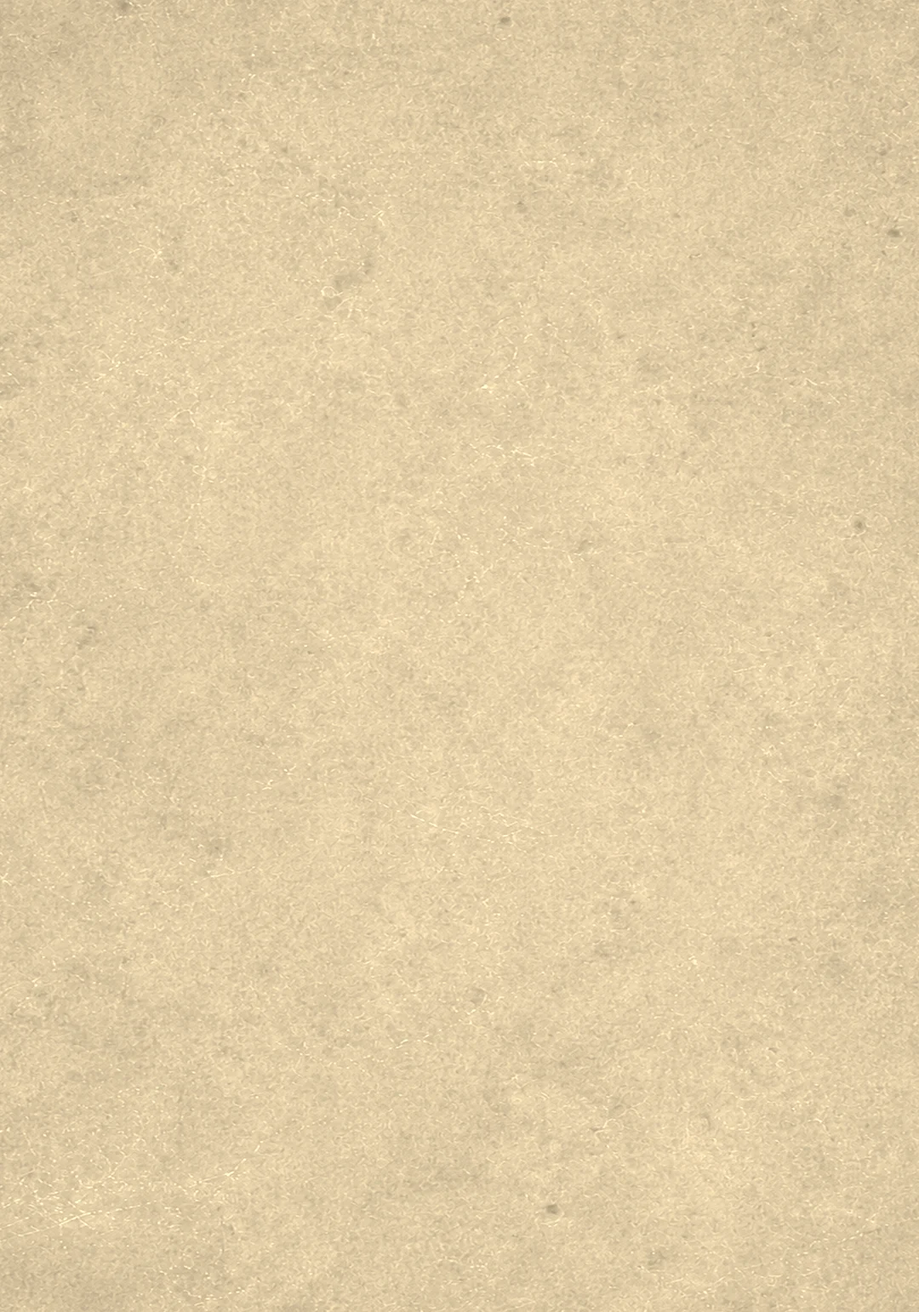
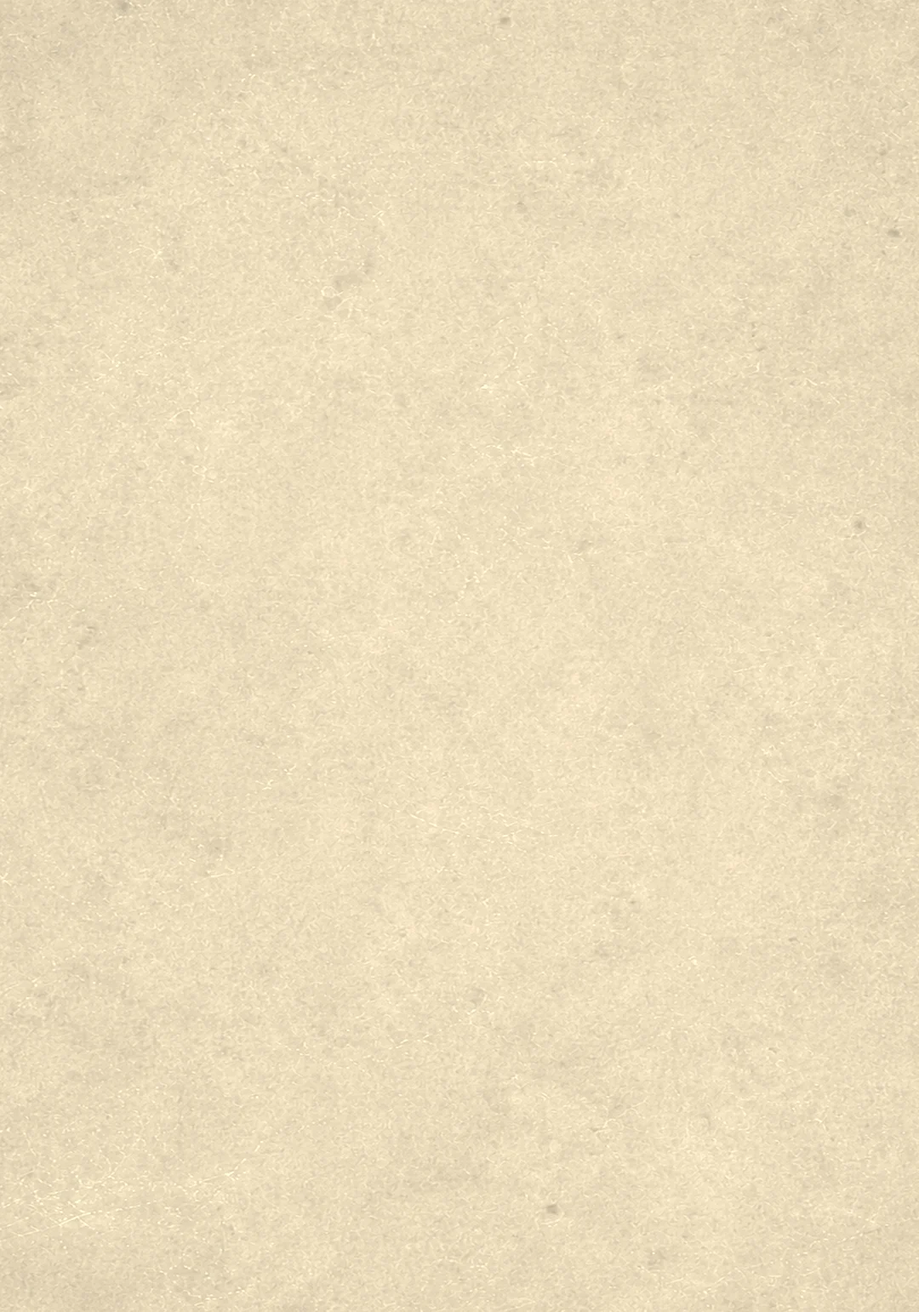
Egito: fundo de areia na opção 2 (mais claro), escolhida pela Vivian
Claude-Session: https://claude.ai/code/session_017RJGScnowdndvDzY2p9N3m

diff --git a/APP CARAVANA EGITO/app/sw.js b/APP CARAVANA EGITO/app/sw.js
@@ -1,10 +1,10 @@
-// marca: 00ac3c0314
+// marca: 0ca8ad15c9
 // Guarda o app inteiro no celular para abrir mesmo sem sinal (templo, estrada, wi-fi fraco do hotel).
 const CACHE = "caravana-v6", EXTRA = "caravana-ext", MAPA = "caravana-mapa", MARCAS = "caravana-marcas";
 // lista de arquivos gerada pelo tools/gerar-site.py
 const ARQUIVOS = /*ARQUIVOS*/["index.html", "shim.js", "config.js", "manifest.webmanifest", "oraculo.html", "oraculo-dados.js", "hieroglifos.html", "gibi.html", "dados/geo.json", "dados/mapa-jogo.json", "dados/saberes/dharma.json", "dados/saberes/ganesha.json", "dados/saberes/kali.json", "dados/saberes/krishna.json", "dados/saberes/lakshmi.json", "dados/saberes/sarasvati.json", "dados/travessia.json", "deuses/amon.webp", "deuses/anubis.webp", "deuses/brahma.webp", "deuses/durga.webp", "deuses/ganesha.webp", "deuses/ganga.webp", "deuses/hanuman.webp", "deuses/hathor.webp", "deuses/hatshepsut.webp", "deuses/horus.webp", "deuses/imhotep.webp", "deuses/isis.webp", "deuses/kali.webp", "deuses/krishna.webp", "deuses/lakshmi.webp", "deuses/maat.webp", "deuses/osiris.webp", "deuses/parvati.webp", "deuses/ptah.webp", "deuses/ra.webp", "deuses/saraswati.webp", "deuses/shiva.webp", "deuses/sobek.webp", "deuses/surya.webp", "deuses/thoth.webp", "deuses/vishnu.webp", "img/abertura-abusimbel.webp", "img/abertura-agra.webp", "img/abertura-aswan.webp", "img/abertura-cairo.webp", "img/abertura-delhi.webp", "img/abertura-deserto.webp", "img/abertura-embarque.webp", "img/abertura-hurghada.webp", "img/abertura-jaipur.webp", "img/abertura-luxor.webp", "img/abertura-nilo.webp", "img/abertura-rishikesh.webp", "img/abertura-varanasi.webp", "img/adesivos/abusimbel.webp", "img/adesivos/aswan.webp", "img/adesivos/cairo.webp", "img/adesivos/correio.webp", "img/adesivos/desertobranco.webp", "img/adesivos/gize.webp", "img/adesivos/hurghada.webp", "img/adesivos/luxor.webp", "img/bastao-claro.webp", "img/bastao-escuro.webp", "img/bilhete-og.jpg", "img/bilhete-textura.jpg", "img/bolsa-bronze.webp", "img/bolsa-couro.webp", "img/bronze.webp", "img/cameras/botao-latao.webp", "img/cameras/campo-corpo.jpg", "img/cameras/campo.png", "img/cameras/carteira-foto.jpg", "img/cameras/carteira.webp", "img/cameras/celular-estante.png", "img/cameras/celular.png", "img/cameras/couro-caramelo.webp", "img/cameras/couro-corpo.jpg", "img/cameras/couro-delhi.webp", "img/cameras/couro.png", "img/cameras/descartavel-corpo.jpg", "img/cameras/descartavel-estante.png", "img/cameras/descartavel.png", "img/cameras/estante.jpg", "img/cameras/etiqueta1.png", "img/cameras/etiqueta2.png", "img/cameras/etiqueta3.png", "img/cameras/instantanea-corpo.jpg", "img/cameras/instantanea-estante.png", "img/cameras/instantanea.png", "img/cameras/mala-cheia.jpg", "img/cameras/mala-oito.webp", "img/cameras/mala-papel.webp", "img/cameras/mala.jpg", "img/cameras/maleta-foto.jpg", "img/cameras/quatro-corpo.jpg", "img/cameras/quatro-estante.png", "img/cameras/quatro.png", "img/cameras/rajastao-corpo.jpg", "img/cameras/rajastao-estante.png", "img/cameras/rajastao.png", "img/cameras/super8-corpo.jpg", "img/cameras/super8-estante.png", "img/cameras/super8.png", "img/caravana-marrom.png", "img/checks/abu-simbel.webp", "img/checks/acampar-sahara.webp", "img/checks/aswan.webp", "img/checks/cairo.webp", "img/checks/cruzeiro-nilo.webp", "img/checks/deserto-branco.webp", "img/checks/historias-esquecidas.webp", "img/checks/hurghada.webp", "img/checks/lua-cheia.webp", "img/checks/luxor.webp", "img/checks/mar-vermelho.webp", "img/checks/mumias.webp", "img/checks/piramide-khufu.webp", "img/checks/rituais.webp", "img/checks/saqqara.webp", "img/checks/sarcofago-tut.webp", "img/checks/ver-piramides.webp", "img/cristal.jpg", "img/egito-mapa-rota.webp", "img/egito-medalhao.webp", "img/egito-passagem.webp", "img/egito-passaporte.webp", "img/emblema.jpg", "img/escaravelho.svg", "img/escaravelho.webp", "img/fundo-abu-fenda.webp", "img/fundo-abu-janela.webp", "img/fundo-anubis.webp", "img/fundo-apis.webp", "img/fundo-areia.webp", "img/fundo-asas.webp", "img/fundo-astronomico-2.webp", "img/fundo-astronomico.webp", "img/fundo-barca-ra.webp", "img/fundo-bronze-escuro.webp", "img/fundo-cartucho.webp", "img/fundo-ceu-nut-estrelas.webp", "img/fundo-cobras-colunas.webp", "img/fundo-colunas.webp", "img/fundo-corredor.webp", "img/fundo-dendera-azul.webp", "img/fundo-dendera-colunas.webp", "img/fundo-dendera-nut.webp", "img/fundo-estrelas-amarelas.webp", "img/fundo-hathor.webp", "img/fundo-hieroglifos.webp", "img/fundo-isis.webp", "img/fundo-lampada.webp", "img/fundo-livro-portas.webp", "img/fundo-nut-barca.webp", "img/fundo-nut-canto.webp", "img/fundo-nut-duplo.webp", "img/fundo-nut-estrelas.webp", "img/fundo-nut-sol.webp", "img/fundo-palmeiras.webp", "img/fundo-papel-gibi.webp", "img/fundo-papiro-escuro.webp", "img/fundo-parede.webp", "img/fundo-pergaminho.webp", "img/fundo-porta-dourada.webp", "img/fundo-relevo.webp", "img/fundo-sacerdote.webp", "img/fundo-serpente-vermelha.webp", "img/fundo-serpente.webp", "img/fundo-teto-dourado.webp", "img/fundo-tumba.webp", "img/fundo-vale-livro.webp", "img/fundo-zodiaco-2.webp", "img/fundo-zodiaco.webp", "img/fundo.webp", "img/gibi/p01-capa.webp", "img/gibi/p02-capitulo-1.webp", "img/gibi/p03-capitulo-2.webp", "img/gibi/p04-dia-1.webp", "img/icone-180.png", "img/icone-192.png", "img/icone-512.png", "img/lacre-escuro.webp", "img/lacre.webp", "img/letreiro.png", "img/lockup-claro.png", "img/logo-egito-240.png", "img/logo-egito.png", "img/logo.png", "img/mantra-ganesha.webp", "img/mantra-vasudeva.webp", "img/mapa-jogo.webp", "img/mapa-mundo.webp", "img/mapa-rota.webp", "img/papiro.webp", "img/parede-cartuchos.webp", "img/passaporte-capa.webp", "img/passaporte.webp", "img/pedra.webp", "img/planetas/budha.webp", "img/planetas/chandra.webp", "img/planetas/guru.webp", "img/planetas/ketu.webp", "img/planetas/mangala.webp", "img/planetas/rahu.webp", "img/planetas/shani.webp", "img/planetas/shukra.webp", "img/planetas/surya.webp", "img/roda-centro.webp", "img/simbolo-claro.png", "img/simbolo-dourado.png", "img/simbolo-marrom.png", "img/simbolo.png", "img/tenda.webp", "img/textura-calcario-escuro.webp", "img/textura-calcario.webp", "img/textura-estrelas.webp", "img/textura-lapis.webp", "img/textura.jpg", "img/veu-cafe.jpg", "img/veu-chocolate.jpg", "img/veu-tabaco.jpg", "img/veu-terra.jpg", "insignias/abu-simbel.webp", "insignias/aswan.webp", "insignias/batismo.webp", "insignias/beatles-ashram.webp", "insignias/cairo.webp", "insignias/caverna.webp", "insignias/deserto-branco.webp", "insignias/diwali.webp", "insignias/durga-kund.webp", "insignias/egito.webp", "insignias/embarque.webp", "insignias/galta-ji.webp", "insignias/ganesha.webp", "insignias/ganga-aarti.webp", "insignias/govind-dev-ji.webp", "insignias/india.webp", "insignias/jaipur.webp", "insignias/kunjapuri.webp", "insignias/luxor.webp", "insignias/manikarnika.webp", "insignias/mar-vermelho.webp", "insignias/mumias.webp", "insignias/piramide-khufu.webp", "insignias/piramides-gize.webp", "insignias/rio-nilo.webp", "insignias/rishikesh.webp", "insignias/sahara.webp", "insignias/sankat-mochan.webp", "insignias/saqqara.webp", "insignias/sarcofago-tut.webp", "insignias/taj-mahal.webp", "insignias/travessia.webp", "insignias/vale-dos-reis.webp", "insignias/varanasi.webp"]/*FIM*/;
 // a marca de cada arquivo: numa atualização o celular só baixa de novo o que mudou (economiza o chip no exterior)
-const MARCA = /*MARCAS*/{"shim.js": "b090d86a0c", "config.js": "431d3dc4e4", "manifest.webmanifest": "7a07d5d328", "oraculo.html": "91d8320d45", "oraculo-dados.js": "ac57e6546f", "hieroglifos.html": "da94faec99", "gibi.html": "0dc8cf7b72", "dados/geo.json": "f261282848", "dados/mapa-jogo.json": "9984939d64", "dados/saberes/dharma.json": "78a51cb407", "dados/saberes/ganesha.json": "9f55ad4be4", "dados/saberes/kali.json": "b86d7ac459", "dados/saberes/krishna.json": "aabd863896", "dados/saberes/lakshmi.json": "bc4299d791", "dados/saberes/sarasvati.json": "20ae87e44b", "dados/travessia.json": "09d3eaa47a", "deuses/amon.webp": "ba0f613359", "deuses/anubis.webp": "69e6977f4e", "deuses/brahma.webp": "19992fcb0b", "deuses/durga.webp": "8d31fb940a", "deuses/ganesha.webp": "17bade2b8f", "deuses/ganga.webp": "149e4dd452", "deuses/hanuman.webp": "060814231e", "deuses/hathor.webp": "c5116cc4ea", "deuses/hatshepsut.webp": "c7543c2b9f", "deuses/horus.webp": "58194c6828", "deuses/imhotep.webp": "46247d723c", "deuses/isis.webp": "323c2bdde2", "deuses/kali.webp": "58775391b0", "deuses/krishna.webp": "6ae658d645", "deuses/lakshmi.webp": "8ae7cb1e38", "deuses/maat.webp": "7f3306b3d1", "deuses/osiris.webp": "9e258174d9", "deuses/parvati.webp": "7deb4969b4", "deuses/ptah.webp": "81a0957350", "deuses/ra.webp": "121959bc69", "deuses/saraswati.webp": "231d5dddb2", "deuses/shiva.webp": "fce88360c5", "deuses/sobek.webp": "0d1ea62f43", "deuses/surya.webp": "df567b134b", "deuses/thoth.webp": "2c254aa544", "deuses/vishnu.webp": "67851a3c0b", "img/abertura-abusimbel.webp": "e48a246209", "img/abertura-agra.webp": "96c5035722", "img/abertura-aswan.webp": "8dfa83da1f", "img/abertura-cairo.webp": "ec80f8b2b1", "img/abertura-delhi.webp": "5356c14bf4", "img/abertura-deserto.webp": "d583649c42", "img/abertura-embarque.webp": "9e320b1e29", "img/abertura-hurghada.webp": "428b99962b", "img/abertura-jaipur.webp": "965ec260db", "img/abertura-luxor.webp": "ebf5b709ea", "img/abertura-nilo.webp": "64af65c660", "img/abertura-rishikesh.webp": "ce4c1a96f6", "img/abertura-varanasi.webp": "018d81939a", "img/adesivos/abusimbel.webp": "53a78d83e2", "img/adesivos/aswan.webp": "77f71459a8", "img/adesivos/cairo.webp": "78c7c6e51b", "img/adesivos/correio.webp": "c9743cde3a", "img/adesivos/desertobranco.webp": "5eb9c9694c", "img/adesivos/gize.webp": "fc4f0f2511", "img/adesivos/hurghada.webp": "050c2ad746", "img/adesivos/luxor.webp": "d60e926fbe", "img/bastao-claro.webp": "7ac7fea53c", "img/bastao-escuro.webp": "c78bbb5b94", "img/bilhete-og.jpg": "01526b34f3", "img/bilhete-textura.jpg": "27c6916490", "img/bolsa-bronze.webp": "75f1768188", "img/bolsa-couro.webp": "4d3ed1b5a1", "img/bronze.webp": "ff8ba55b04", "img/cameras/botao-latao.webp": "2666f49629", "img/cameras/campo-corpo.jpg": "e0bf2b6969", "img/cameras/campo.png": "c18a7e8454", "img/cameras/carteira-foto.jpg": "a7fedf6036", "img/cameras/carteira.webp": "3b77bfd17e", "img/cameras/celular-estante.png": "da6451baf7", "img/cameras/celular.png": "b10bb112cb", "img/cameras/couro-caramelo.webp": "57fa500869", "img/cameras/couro-corpo.jpg": "bf49b75fa3", "img/cameras/couro-delhi.webp": "4a78ba9b77", "img/cameras/couro.png": "e4ff450f79", "img/cameras/descartavel-corpo.jpg": "ac07cb28f5", "img/cameras/descartavel-estante.png": "f1d69c668a", "img/cameras/descartavel.png": "876e87ab30", "img/cameras/estante.jpg": "0cb7b649a8", "img/cameras/etiqueta1.png": "4aeea10cc0", "img/cameras/etiqueta2.png": "67dc1501a5", "img/cameras/etiqueta3.png": "0ad50425a9", "img/cameras/instantanea-corpo.jpg": "856089fe2a", "img/cameras/instantanea-estante.png": "f9885341c1", "img/cameras/instantanea.png": "beb836f2bc", "img/cameras/mala-cheia.jpg": "3c2218ae98", "img/cameras/mala-oito.webp": "aef48e85db", "img/cameras/mala-papel.webp": "29fc8486ca", "img/cameras/mala.jpg": "f79a46d2d3", "img/cameras/maleta-foto.jpg": "a8fd724b58", "img/cameras/quatro-corpo.jpg": "6c6747f615", "img/cameras/quatro-estante.png": "b2082a40e1", "img/cameras/quatro.png": "bbe4f0f2a4", "img/cameras/rajastao-corpo.jpg": "2b36624ac6", "img/cameras/rajastao-estante.png": "76fe9802df", "img/cameras/rajastao.png": "b480e2d873", "img/cameras/super8-corpo.jpg": "4b5235d146", "img/cameras/super8-estante.png": "2a07cbf97a", "img/cameras/super8.png": "e12eb1f958", "img/caravana-marrom.png": "784b71c5db", "img/checks/abu-simbel.webp": "34bf7cda1f", "img/checks/acampar-sahara.webp": "db865b20e3", "img/checks/aswan.webp": "ea946ffd48", "img/checks/cairo.webp": "7a1c6177c8", "img/checks/cruzeiro-nilo.webp": "dc9bcdd03b", "img/checks/deserto-branco.webp": "d1cdd72eac", "img/checks/historias-esquecidas.webp": "d902cfebdd", "img/checks/hurghada.webp": "cf895856fc", "img/checks/lua-cheia.webp": "53c0d6dd9f", "img/checks/luxor.webp": "d61775ae6e", "img/checks/mar-vermelho.webp": "afd1898b0c", "img/checks/mumias.webp": "848288a457", "img/checks/piramide-khufu.webp": "d295a57617", "img/checks/rituais.webp": "2f98c8d32c", "img/checks/saqqara.webp": "bb1a360371", "img/checks/sarcofago-tut.webp": "522721dcd8", "img/checks/ver-piramides.webp": "2e3b1bf692", "img/cristal.jpg": "4adff18968", "img/egito-mapa-rota.webp": "492593b6ff", "img/egito-medalhao.webp": "e768ea14d2", "img/egito-passagem.webp": "ce9534ad91", "img/egito-passaporte.webp": "7e824e049a", "img/emblema.jpg": "a211a86451", "img/escaravelho.svg": "d613715f24", "img/escaravelho.webp": "fa4773e705", "img/fundo-abu-fenda.webp": "c233e68859", "img/fundo-abu-janela.webp": "30f31b2cfc", "img/fundo-anubis.webp": "f05a545739", "img/fundo-apis.webp": "15e47ce02f", "img/fundo-areia.webp": "08468325ce", "img/fundo-asas.webp": "e0092bdbcf", "img/fundo-astronomico-2.webp": "f80050ddbb", "img/fundo-astronomico.webp": "b28f67b243", "img/fundo-barca-ra.webp": "7d0ecdf766", "img/fundo-bronze-escuro.webp": "b7a27d996e", "img/fundo-cartucho.webp": "e811d39c90", "img/fundo-ceu-nut-estrelas.webp": "9cb1727a44", "img/fundo-cobras-colunas.webp": "dce16a2590", "img/fundo-colunas.webp": "653590bc8f", "img/fundo-corredor.webp": "6c630f1131", "img/fundo-dendera-azul.webp": "3b677f843f", "img/fundo-dendera-colunas.webp": "8c178fca22", "img/fundo-dendera-nut.webp": "20a650d32a", "img/fundo-estrelas-amarelas.webp": "d08e8f32bb", "img/fundo-hathor.webp": "2925675744", "img/fundo-hieroglifos.webp": "c42b5c4fe4", "img/fundo-isis.webp": "3feae5327e", "img/fundo-lampada.webp": "747b859634", "img/fundo-livro-portas.webp": "45f6962747", "img/fundo-nut-barca.webp": "bfa84f1610", "img/fundo-nut-canto.webp": "c0f2ab3991", "img/fundo-nut-duplo.webp": "2184f18bb7", "img/fundo-nut-estrelas.webp": "48326b906a", "img/fundo-nut-sol.webp": "44315c2c51", "img/fundo-palmeiras.webp": "ffa484f957", "img/fundo-papel-gibi.webp": "2d2b54dca1", "img/fundo-papiro-escuro.webp": "c8126a5fcd", "img/fundo-parede.webp": "241c1ca804", "img/fundo-pergaminho.webp": "35d4f2feca", "img/fundo-porta-dourada.webp": "e33395dddf", "img/fundo-relevo.webp": "e6382911ee", "img/fundo-sacerdote.webp": "cfa09c5d69", "img/fundo-serpente-vermelha.webp": "718334f9a3", "img/fundo-serpente.webp": "718334f9a3", "img/fundo-teto-dourado.webp": "6c0384df96", "img/fundo-tumba.webp": "36fadc5b74", "img/fundo-vale-livro.webp": "f27e2a6a9e", "img/fundo-zodiaco-2.webp": "7c50f56a13", "img/fundo-zodiaco.webp": "5d6c1743b9", "img/fundo.webp": "aa9c10bcae", "img/gibi/p01-capa.webp": "f2f4107e50", "img/gibi/p02-capitulo-1.webp": "40fda1fe6f", "img/gibi/p03-capitulo-2.webp": "6cea78df40", "img/gibi/p04-dia-1.webp": "c047945820", "img/icone-180.png": "02e4732265", "img/icone-192.png": "246ad105cb", "img/icone-512.png": "4765bbdf7c", "img/lacre-escuro.webp": "d459f488fc", "img/lacre.webp": "635ae8e394", "img/letreiro.png": "6defdd3553", "img/lockup-claro.png": "8d663db03a", "img/logo-egito-240.png": "7d4949dec7", "img/logo-egito.png": "78eae271f0", "img/logo.png": "7a72b39c60", "img/mantra-ganesha.webp": "a7daafb44d", "img/mantra-vasudeva.webp": "6827763e6f", "img/mapa-jogo.webp": "3092b9ebdc", "img/mapa-mundo.webp": "24b3fdfc13", "img/mapa-rota.webp": "7a1c36e387", "img/papiro.webp": "7e11ae5ce6", "img/parede-cartuchos.webp": "09e735de57", "img/passaporte-capa.webp": "3c3ed6db3a", "img/passaporte.webp": "c5a0d63fd3", "img/pedra.webp": "3440e853b6", "img/planetas/budha.webp": "4c0a1ac24f", "img/planetas/chandra.webp": "56de1fa225", "img/planetas/guru.webp": "579c3697e6", "img/planetas/ketu.webp": "a96da73a0a", "img/planetas/mangala.webp": "fd4333e899", "img/planetas/rahu.webp": "2d54c13192", "img/planetas/shani.webp": "b270872959", "img/planetas/shukra.webp": "22c1b384af", "img/planetas/surya.webp": "af1ab537fa", "img/roda-centro.webp": "74b0564a4d", "img/simbolo-claro.png": "8fa2d5ebf1", "img/simbolo-dourado.png": "fefceb26fb", "img/simbolo-marrom.png": "54f22364f2", "img/simbolo.png": "cf73e5581e", "img/tenda.webp": "306f2ba051", "img/textura-calcario-escuro.webp": "959ea4ad70", "img/textura-calcario.webp": "3f9c524413", "img/textura-estrelas.webp": "d124ac711e", "img/textura-lapis.webp": "1a7b1292c2", "img/textura.jpg": "2dd579ec54", "img/veu-cafe.jpg": "05ac3b31f2", "img/veu-chocolate.jpg": "927f95e277", "img/veu-tabaco.jpg": "b63638e66f", "img/veu-terra.jpg": "936b654f1f", "insignias/abu-simbel.webp": "8496c2f09a", "insignias/aswan.webp": "93c8fea635", "insignias/batismo.webp": "5372da595f", "insignias/beatles-ashram.webp": "753270b7d0", "insignias/cairo.webp": "28718ba008", "insignias/caverna.webp": "804c730450", "insignias/deserto-branco.webp": "e88e5203cb", "insignias/diwali.webp": "56d57efb26", "insignias/durga-kund.webp": "54db1886b6", "insignias/egito.webp": "be3b4a0c90", "insignias/embarque.webp": "e768ea14d2", "insignias/galta-ji.webp": "8aed7ab707", "insignias/ganesha.webp": "b866c0bba1", "insignias/ganga-aarti.webp": "0f3405a8b0", "insignias/govind-dev-ji.webp": "2e6c1891c5", "insignias/india.webp": "0507deebf0", "insignias/jaipur.webp": "b5a70853d8", "insignias/kunjapuri.webp": "a887052d5c", "insignias/luxor.webp": "2bebcebc2f", "insignias/manikarnika.webp": "e7a872925e", "insignias/mar-vermelho.webp": "c1435896ed", "insignias/mumias.webp": "6bbd37a205", "insignias/piramide-khufu.webp": "2b4e5eeb85", "insignias/piramides-gize.webp": "7cb2d67be4", "insignias/rio-nilo.webp": "69bbf1a0bf", "insignias/rishikesh.webp": "98d094103a", "insignias/sahara.webp": "cd34bb9f83", "insignias/sankat-mochan.webp": "38c74ad7d0", "insignias/saqqara.webp": "2474eff319", "insignias/sarcofago-tut.webp": "373c3ec7de", "insignias/taj-mahal.webp": "2d4bb63d47", "insignias/travessia.webp": "44e46c3480", "insignias/vale-dos-reis.webp": "8c225731a4", "insignias/varanasi.webp": "fcd5b20cfc"}/*FIMM*/;
+const MARCA = /*MARCAS*/{"shim.js": "b090d86a0c", "config.js": "431d3dc4e4", "manifest.webmanifest": "7a07d5d328", "oraculo.html": "91d8320d45", "oraculo-dados.js": "ac57e6546f", "hieroglifos.html": "da94faec99", "gibi.html": "0dc8cf7b72", "dados/geo.json": "f261282848", "dados/mapa-jogo.json": "9984939d64", "dados/saberes/dharma.json": "78a51cb407", "dados/saberes/ganesha.json": "9f55ad4be4", "dados/saberes/kali.json": "b86d7ac459", "dados/saberes/krishna.json": "aabd863896", "dados/saberes/lakshmi.json": "bc4299d791", "dados/saberes/sarasvati.json": "20ae87e44b", "dados/travessia.json": "09d3eaa47a", "deuses/amon.webp": "ba0f613359", "deuses/anubis.webp": "69e6977f4e", "deuses/brahma.webp": "19992fcb0b", "deuses/durga.webp": "8d31fb940a", "deuses/ganesha.webp": "17bade2b8f", "deuses/ganga.webp": "149e4dd452", "deuses/hanuman.webp": "060814231e", "deuses/hathor.webp": "c5116cc4ea", "deuses/hatshepsut.webp": "c7543c2b9f", "deuses/horus.webp": "58194c6828", "deuses/imhotep.webp": "46247d723c", "deuses/isis.webp": "323c2bdde2", "deuses/kali.webp": "58775391b0", "deuses/krishna.webp": "6ae658d645", "deuses/lakshmi.webp": "8ae7cb1e38", "deuses/maat.webp": "7f3306b3d1", "deuses/osiris.webp": "9e258174d9", "deuses/parvati.webp": "7deb4969b4", "deuses/ptah.webp": "81a0957350", "deuses/ra.webp": "121959bc69", "deuses/saraswati.webp": "231d5dddb2", "deuses/shiva.webp": "fce88360c5", "deuses/sobek.webp": "0d1ea62f43", "deuses/surya.webp": "df567b134b", "deuses/thoth.webp": "2c254aa544", "deuses/vishnu.webp": "67851a3c0b", "img/abertura-abusimbel.webp": "e48a246209", "img/abertura-agra.webp": "96c5035722", "img/abertura-aswan.webp": "8dfa83da1f", "img/abertura-cairo.webp": "ec80f8b2b1", "img/abertura-delhi.webp": "5356c14bf4", "img/abertura-deserto.webp": "d583649c42", "img/abertura-embarque.webp": "9e320b1e29", "img/abertura-hurghada.webp": "428b99962b", "img/abertura-jaipur.webp": "965ec260db", "img/abertura-luxor.webp": "ebf5b709ea", "img/abertura-nilo.webp": "64af65c660", "img/abertura-rishikesh.webp": "ce4c1a96f6", "img/abertura-varanasi.webp": "018d81939a", "img/adesivos/abusimbel.webp": "53a78d83e2", "img/adesivos/aswan.webp": "77f71459a8", "img/adesivos/cairo.webp": "78c7c6e51b", "img/adesivos/correio.webp": "c9743cde3a", "img/adesivos/desertobranco.webp": "5eb9c9694c", "img/adesivos/gize.webp": "fc4f0f2511", "img/adesivos/hurghada.webp": "050c2ad746", "img/adesivos/luxor.webp": "d60e926fbe", "img/bastao-claro.webp": "7ac7fea53c", "img/bastao-escuro.webp": "c78bbb5b94", "img/bilhete-og.jpg": "01526b34f3", "img/bilhete-textura.jpg": "27c6916490", "img/bolsa-bronze.webp": "75f1768188", "img/bolsa-couro.webp": "4d3ed1b5a1", "img/bronze.webp": "ff8ba55b04", "img/cameras/botao-latao.webp": "2666f49629", "img/cameras/campo-corpo.jpg": "e0bf2b6969", "img/cameras/campo.png": "c18a7e8454", "img/cameras/carteira-foto.jpg": "a7fedf6036", "img/cameras/carteira.webp": "3b77bfd17e", "img/cameras/celular-estante.png": "da6451baf7", "img/cameras/celular.png": "b10bb112cb", "img/cameras/couro-caramelo.webp": "57fa500869", "img/cameras/couro-corpo.jpg": "bf49b75fa3", "img/cameras/couro-delhi.webp": "4a78ba9b77", "img/cameras/couro.png": "e4ff450f79", "img/cameras/descartavel-corpo.jpg": "ac07cb28f5", "img/cameras/descartavel-estante.png": "f1d69c668a", "img/cameras/descartavel.png": "876e87ab30", "img/cameras/estante.jpg": "0cb7b649a8", "img/cameras/etiqueta1.png": "4aeea10cc0", "img/cameras/etiqueta2.png": "67dc1501a5", "img/cameras/etiqueta3.png": "0ad50425a9", "img/cameras/instantanea-corpo.jpg": "856089fe2a", "img/cameras/instantanea-estante.png": "f9885341c1", "img/cameras/instantanea.png": "beb836f2bc", "img/cameras/mala-cheia.jpg": "3c2218ae98", "img/cameras/mala-oito.webp": "aef48e85db", "img/cameras/mala-papel.webp": "29fc8486ca", "img/cameras/mala.jpg": "f79a46d2d3", "img/cameras/maleta-foto.jpg": "a8fd724b58", "img/cameras/quatro-corpo.jpg": "6c6747f615", "img/cameras/quatro-estante.png": "b2082a40e1", "img/cameras/quatro.png": "bbe4f0f2a4", "img/cameras/rajastao-corpo.jpg": "2b36624ac6", "img/cameras/rajastao-estante.png": "76fe9802df", "img/cameras/rajastao.png": "b480e2d873", "img/cameras/super8-corpo.jpg": "4b5235d146", "img/cameras/super8-estante.png": "2a07cbf97a", "img/cameras/super8.png": "e12eb1f958", "img/caravana-marrom.png": "784b71c5db", "img/checks/abu-simbel.webp": "34bf7cda1f", "img/checks/acampar-sahara.webp": "db865b20e3", "img/checks/aswan.webp": "ea946ffd48", "img/checks/cairo.webp": "7a1c6177c8", "img/checks/cruzeiro-nilo.webp": "dc9bcdd03b", "img/checks/deserto-branco.webp": "d1cdd72eac", "img/checks/historias-esquecidas.webp": "d902cfebdd", "img/checks/hurghada.webp": "cf895856fc", "img/checks/lua-cheia.webp": "53c0d6dd9f", "img/checks/luxor.webp": "d61775ae6e", "img/checks/mar-vermelho.webp": "afd1898b0c", "img/checks/mumias.webp": "848288a457", "img/checks/piramide-khufu.webp": "d295a57617", "img/checks/rituais.webp": "2f98c8d32c", "img/checks/saqqara.webp": "bb1a360371", "img/checks/sarcofago-tut.webp": "522721dcd8", "img/checks/ver-piramides.webp": "2e3b1bf692", "img/cristal.jpg": "4adff18968", "img/egito-mapa-rota.webp": "492593b6ff", "img/egito-medalhao.webp": "e768ea14d2", "img/egito-passagem.webp": "ce9534ad91", "img/egito-passaporte.webp": "7e824e049a", "img/emblema.jpg": "a211a86451", "img/escaravelho.svg": "d613715f24", "img/escaravelho.webp": "fa4773e705", "img/fundo-abu-fenda.webp": "c233e68859", "img/fundo-abu-janela.webp": "30f31b2cfc", "img/fundo-anubis.webp": "f05a545739", "img/fundo-apis.webp": "15e47ce02f", "img/fundo-areia.webp": "14e2dcda60", "img/fundo-asas.webp": "e0092bdbcf", "img/fundo-astronomico-2.webp": "f80050ddbb", "img/fundo-astronomico.webp": "b28f67b243", "img/fundo-barca-ra.webp": "7d0ecdf766", "img/fundo-bronze-escuro.webp": "b7a27d996e", "img/fundo-cartucho.webp": "e811d39c90", "img/fundo-ceu-nut-estrelas.webp": "9cb1727a44", "img/fundo-cobras-colunas.webp": "dce16a2590", "img/fundo-colunas.webp": "653590bc8f", "img/fundo-corredor.webp": "6c630f1131", "img/fundo-dendera-azul.webp": "3b677f843f", "img/fundo-dendera-colunas.webp": "8c178fca22", "img/fundo-dendera-nut.webp": "20a650d32a", "img/fundo-estrelas-amarelas.webp": "d08e8f32bb", "img/fundo-hathor.webp": "2925675744", "img/fundo-hieroglifos.webp": "c42b5c4fe4", "img/fundo-isis.webp": "3feae5327e", "img/fundo-lampada.webp": "747b859634", "img/fundo-livro-portas.webp": "45f6962747", "img/fundo-nut-barca.webp": "bfa84f1610", "img/fundo-nut-canto.webp": "c0f2ab3991", "img/fundo-nut-duplo.webp": "2184f18bb7", "img/fundo-nut-estrelas.webp": "48326b906a", "img/fundo-nut-sol.webp": "44315c2c51", "img/fundo-palmeiras.webp": "ffa484f957", "img/fundo-papel-gibi.webp": "2d2b54dca1", "img/fundo-papiro-escuro.webp": "c8126a5fcd", "img/fundo-parede.webp": "241c1ca804", "img/fundo-pergaminho.webp": "35d4f2feca", "img/fundo-porta-dourada.webp": "e33395dddf", "img/fundo-relevo.webp": "e6382911ee", "img/fundo-sacerdote.webp": "cfa09c5d69", "img/fundo-serpente-vermelha.webp": "718334f9a3", "img/fundo-serpente.webp": "718334f9a3", "img/fundo-teto-dourado.webp": "6c0384df96", "img/fundo-tumba.webp": "36fadc5b74", "img/fundo-vale-livro.webp": "f27e2a6a9e", "img/fundo-zodiaco-2.webp": "7c50f56a13", "img/fundo-zodiaco.webp": "5d6c1743b9", "img/fundo.webp": "aa9c10bcae", "img/gibi/p01-capa.webp": "f2f4107e50", "img/gibi/p02-capitulo-1.webp": "40fda1fe6f", "img/gibi/p03-capitulo-2.webp": "6cea78df40", "img/gibi/p04-dia-1.webp": "c047945820", "img/icone-180.png": "02e4732265", "img/icone-192.png": "246ad105cb", "img/icone-512.png": "4765bbdf7c", "img/lacre-escuro.webp": "d459f488fc", "img/lacre.webp": "635ae8e394", "img/letreiro.png": "6defdd3553", "img/lockup-claro.png": "8d663db03a", "img/logo-egito-240.png": "7d4949dec7", "img/logo-egito.png": "78eae271f0", "img/logo.png": "7a72b39c60", "img/mantra-ganesha.webp": "a7daafb44d", "img/mantra-vasudeva.webp": "6827763e6f", "img/mapa-jogo.webp": "3092b9ebdc", "img/mapa-mundo.webp": "24b3fdfc13", "img/mapa-rota.webp": "7a1c36e387", "img/papiro.webp": "7e11ae5ce6", "img/parede-cartuchos.webp": "09e735de57", "img/passaporte-capa.webp": "3c3ed6db3a", "img/passaporte.webp": "c5a0d63fd3", "img/pedra.webp": "3440e853b6", "img/planetas/budha.webp": "4c0a1ac24f", "img/planetas/chandra.webp": "56de1fa225", "img/planetas/guru.webp": "579c3697e6", "img/planetas/ketu.webp": "a96da73a0a", "img/planetas/mangala.webp": "fd4333e899", "img/planetas/rahu.webp": "2d54c13192", "img/planetas/shani.webp": "b270872959", "img/planetas/shukra.webp": "22c1b384af", "img/planetas/surya.webp": "af1ab537fa", "img/roda-centro.webp": "74b0564a4d", "img/simbolo-claro.png": "8fa2d5ebf1", "img/simbolo-dourado.png": "fefceb26fb", "img/simbolo-marrom.png": "54f22364f2", "img/simbolo.png": "cf73e5581e", "img/tenda.webp": "306f2ba051", "img/textura-calcario-escuro.webp": "959ea4ad70", "img/textura-calcario.webp": "3f9c524413", "img/textura-estrelas.webp": "d124ac711e", "img/textura-lapis.webp": "1a7b1292c2", "img/textura.jpg": "2dd579ec54", "img/veu-cafe.jpg": "05ac3b31f2", "img/veu-chocolate.jpg": "927f95e277", "img/veu-tabaco.jpg": "b63638e66f", "img/veu-terra.jpg": "936b654f1f", "insignias/abu-simbel.webp": "8496c2f09a", "insignias/aswan.webp": "93c8fea635", "insignias/batismo.webp": "5372da595f", "insignias/beatles-ashram.webp": "753270b7d0", "insignias/cairo.webp": "28718ba008", "insignias/caverna.webp": "804c730450", "insignias/deserto-branco.webp": "e88e5203cb", "insignias/diwali.webp": "56d57efb26", "insignias/durga-kund.webp": "54db1886b6", "insignias/egito.webp": "be3b4a0c90", "insignias/embarque.webp": "e768ea14d2", "insignias/galta-ji.webp": "8aed7ab707", "insignias/ganesha.webp": "b866c0bba1", "insignias/ganga-aarti.webp": "0f3405a8b0", "insignias/govind-dev-ji.webp": "2e6c1891c5", "insignias/india.webp": "0507deebf0", "insignias/jaipur.webp": "b5a70853d8", "insignias/kunjapuri.webp": "a887052d5c", "insignias/luxor.webp": "2bebcebc2f", "insignias/manikarnika.webp": "e7a872925e", "insignias/mar-vermelho.webp": "c1435896ed", "insignias/mumias.webp": "6bbd37a205", "insignias/piramide-khufu.webp": "2b4e5eeb85", "insignias/piramides-gize.webp": "7cb2d67be4", "insignias/rio-nilo.webp": "69bbf1a0bf", "insignias/rishikesh.webp": "98d094103a", "insignias/sahara.webp": "cd34bb9f83", "insignias/sankat-mochan.webp": "38c74ad7d0", "insignias/saqqara.webp": "2474eff319", "insignias/sarcofago-tut.webp": "373c3ec7de", "insignias/taj-mahal.webp": "2d4bb63d47", "insignias/travessia.webp": "44e46c3480", "insignias/vale-dos-reis.webp": "8c225731a4", "insignias/varanasi.webp": "fcd5b20cfc"}/*FIMM*/;
 const LISTA = new Set(ARQUIVOS.filter(a => a !== "index.html"));
 async function guardaUm(c, m, a, sempre) {
   const mk = MARCA[a];

diff --git a/APP CARAVANA EGITO/app/index.html b/APP CARAVANA EGITO/app/index.html
@@ -8,7 +8,7 @@
 <link rel="apple-touch-icon" sizes="180x180" href="/img/icone-180.png">
 <link rel="apple-touch-icon" href="/apple-touch-icon.png">
 <link rel="manifest" href="manifest.webmanifest">
-<script>window.__VERSAO = "16/10 · 09:03";</script>
+<script>window.__VERSAO = "16/10 · 09:10";</script>
 <script src="config.js"></script>
 <script src="shim.js"></script>
 <style>*,*::before,*::after{box-sizing:border-box}html,body{margin:0;height:100%}
@@ -2295,7 +2295,7 @@ html[data-tab="fotos"] :is(.view>.head h1,.view>.head h2,.view>.lede,.view>p.sma
   box-shadow:inset 0 0 40px rgba(0,0,0,.55)}
 /* fundo de areia (textura do PSD "cima" da Vivian, em pé e no tom de areia: tools/egito/fundo-areia.py) no lugar do papiro escuro */
 /* o mesmo fundo de areia do passaporte em TODAS as abas (pedido da Vivian): o fundo não muda ao trocar de aba */
-html[data-tab] body{background:#E2CDA6}
+html[data-tab] body{background:#ECDCBC}
 html[data-tab] body::before{background:url(img/fundo-areia.webp) center/cover no-repeat!important;filter:none!important;opacity:1!important}
 html[data-tab] body::after{background:radial-gradient(ellipse at 50% 45%,transparent 65%,rgba(60,35,10,.12))!important}
 html[data-tab] :is(.view>.head h1,.view>.head h2,.view>.lede,.view>p.small,.view>.small,.view>p:not([class])){color:var(--ink);text-shadow:none}

diff --git a/APP CARAVANA EGITO/app/caravana-do-ceu.html b/APP CARAVANA EGITO/app/caravana-do-ceu.html
@@ -2263,7 +2263,7 @@ html[data-tab="fotos"] :is(.view>.head h1,.view>.head h2,.view>.lede,.view>p.sma
   box-shadow:inset 0 0 40px rgba(0,0,0,.55)}
 /* fundo de areia (textura do PSD "cima" da Vivian, em pé e no tom de areia: tools/egito/fundo-areia.py) no lugar do papiro escuro */
 /* o mesmo fundo de areia do passaporte em TODAS as abas (pedido da Vivian): o fundo não muda ao trocar de aba */
-html[data-tab] body{background:#E2CDA6}
+html[data-tab] body{background:#ECDCBC}
 html[data-tab] body::before{background:url(img/fundo-areia.webp) center/cover no-repeat!important;filter:none!important;opacity:1!important}
 html[data-tab] body::after{background:radial-gradient(ellipse at 50% 45%,transparent 65%,rgba(60,35,10,.12))!important}
 html[data-tab] :is(.view>.head h1,.view>.head h2,.view>.lede,.view>p.small,.view>.small,.view>p:not([class])){color:var(--ink);text-shadow:none}

diff --git a/APP CARAVANA EGITO/tools/egito/tema-gibi.css b/APP CARAVANA EGITO/tools/egito/tema-gibi.css
@@ -389,7 +389,7 @@ html[data-tab="fotos"] :is(.view>.head h1,.view>.head h2,.view>.lede,.view>p.sma
   box-shadow:inset 0 0 40px rgba(0,0,0,.55)}
 /* fundo de areia (textura do PSD "cima" da Vivian, em pé e no tom de areia: tools/egito/fundo-areia.py) no lugar do papiro escuro */
 /* o mesmo fundo de areia do passaporte em TODAS as abas (pedido da Vivian): o fundo não muda ao trocar de aba */
-html[data-tab] body{background:#E2CDA6}
+html[data-tab] body{background:#ECDCBC}
 html[data-tab] body::before{background:url(img/fundo-areia.webp) center/cover no-repeat!important;filter:none!important;opacity:1!important}
 html[data-tab] body::after{background:radial-gradient(ellipse at 50% 45%,transparent 65%,rgba(60,35,10,.12))!important}
 html[data-tab] :is(.view>.head h1,.view>.head h2,.view>.lede,.view>p.small,.view>.small,.view>p:not([class])){color:var(--ink);text-shadow:none}

diff --git a/APP CARAVANA EGITO/tools/egito/fundo-areia.py b/APP CARAVANA EGITO/tools/egito/fundo-areia.py
@@ -6,6 +6,6 @@ from PIL import Image
 R = pathlib.Path(__file__).resolve().parents[2]
 im = Image.open(R / "referencias/textura-areia-psd-cima.jpg").convert("RGB").crop((195, 177, 195 + 2362, 177 + 1654)).rotate(90, expand=True)
 a = np.asarray(im).astype(float); lum = a.mean(2)
-out = np.array([226, 205, 166.])[None, None, :] * ((lum / lum.mean()) ** .7)[..., None]  # mais clara e com menos contraste, para o texto ler bem
+out = np.array([236, 220, 188.])[None, None, :] * ((lum / lum.mean()) ** .5)[..., None]  # mais clara e com menos contraste, para o texto ler bem
 Image.fromarray(out.clip(0, 255).astype("uint8")).resize((1080, 1542), Image.LANCZOS).save(R / "app/img/fundo-areia.webp", "WEBP", quality=86)
 print("ok")

diff --git a/APP CARAVANA EGITO/CONHECIMENTO.md b/APP CARAVANA EGITO/CONHECIMENTO.md
@@ -320,3 +320,4 @@ Tudo seguindo o roteiro oficial (`app/dados/travessia.json`, 8 a 20/10/2027). Po
 - Para atualizar, publicar o mesmo arquivo de novo. Isso não gasta créditos da Netlify.
 - Fundo único: o fundo de areia do passaporte vale para todas as abas (não muda ao trocar de aba).
 - Fundo de areia mais claro e com menos contraste; folha de dados do passaporte com relevo suave e rótulos escuros (pedido da Vivian: difícil de ler).
+- Tom do fundo escolhido: opção 2 (areia bem clara, cor 236/220/188, contraste .5).
